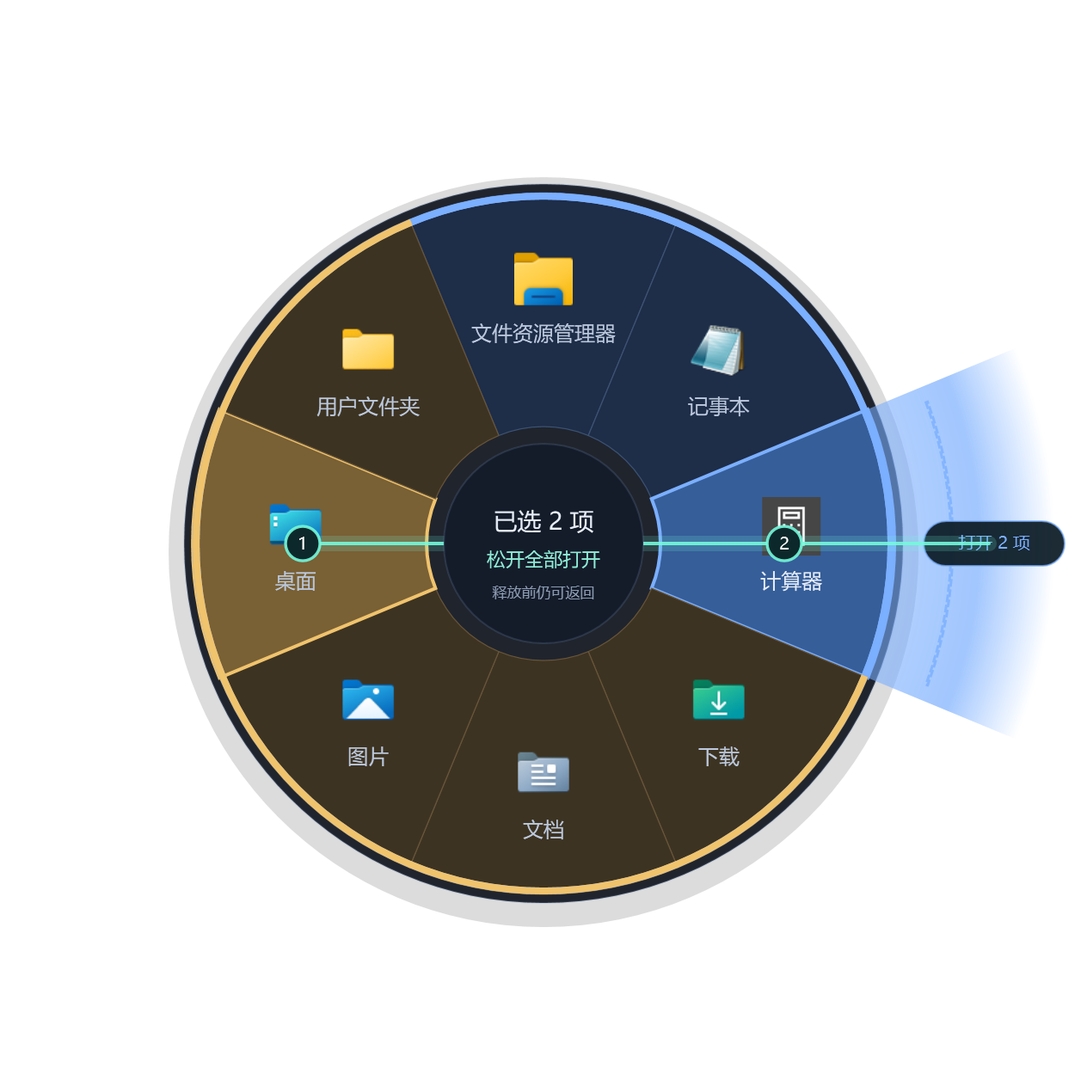
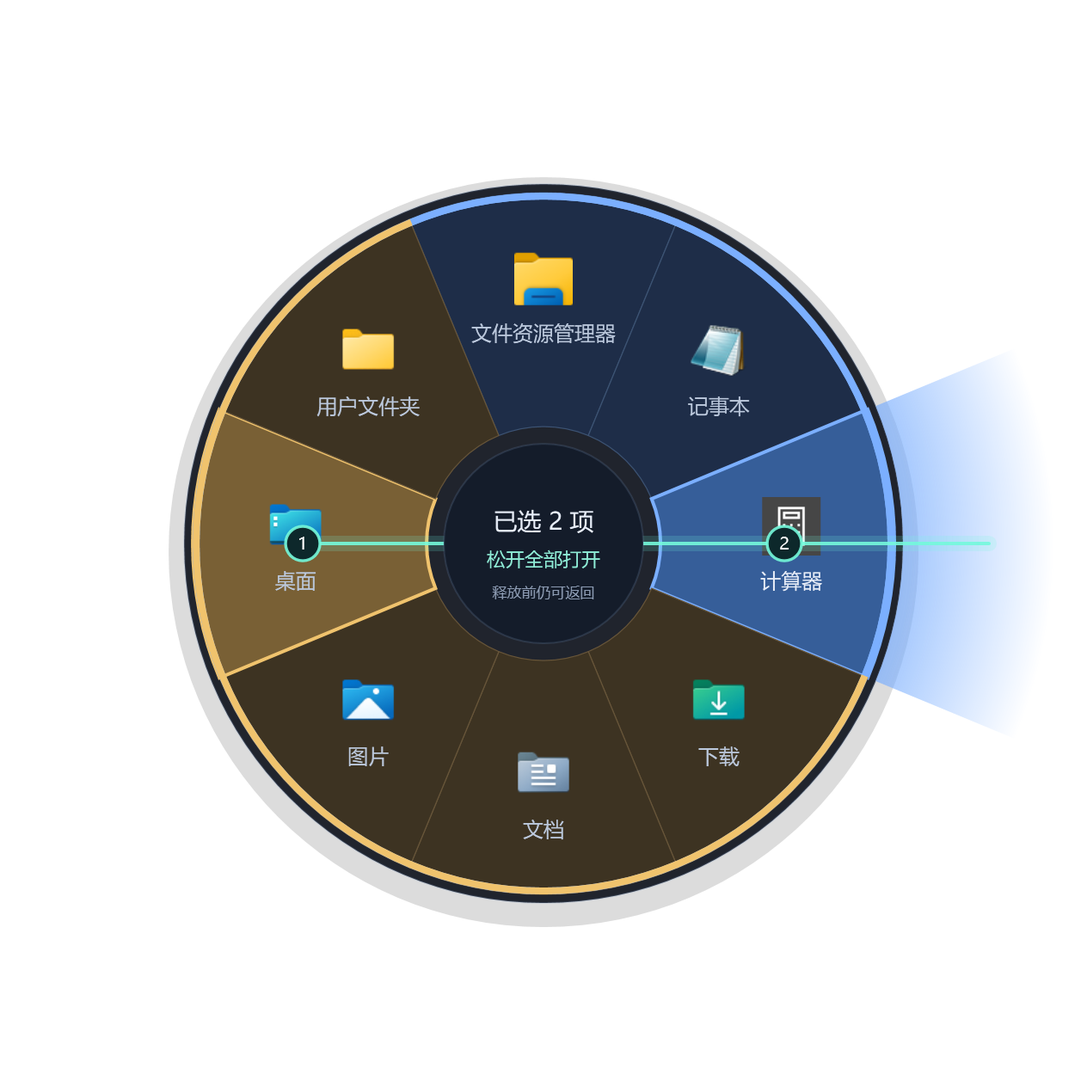
fix: confirm across outer area and keep wheel centred at gesture origin

Changed region(s): [[0.8022, 0.3394, 0.9873, 0.6788]]

diff --git a/src/OrbitLauncher/SettingsWindow.xaml b/src/OrbitLauncher/SettingsWindow.xaml
@@ -25,7 +25,7 @@
   <Grid.RowDefinitions><RowDefinition Height="Auto"/><RowDefinition Height="Auto"/><RowDefinition Height="*"/><RowDefinition Height="Auto"/></Grid.RowDefinitions>
   <Grid>
    <StackPanel Orientation="Horizontal"><Image Source="{x:Static local:Branding.Logo}" Width="52" Height="52" RenderOptions.BitmapScalingMode="HighQuality"/><StackPanel Margin="14,0,0,0" VerticalAlignment="Center"><StackPanel Orientation="Horizontal"><TextBlock Text="一划" FontSize="27" FontWeight="SemiBold"/><TextBlock Text="YIHUA" Foreground="{DynamicResource Theme.AccentText}" FontSize="10" Margin="12,0,0,5" VerticalAlignment="Bottom"/></StackPanel><TextBlock Text="一划即达，让常用的入口就在手边。" Foreground="{DynamicResource Theme.Muted}" Margin="0,4,0,0" FontSize="11"/></StackPanel></StackPanel>
-   <StackPanel HorizontalAlignment="Right" VerticalAlignment="Center"><Border Background="{DynamicResource Theme.Status}" BorderBrush="{DynamicResource Theme.StatusBorder}" BorderThickness="1" CornerRadius="12" Padding="12,5"><TextBlock x:Name="RuntimeTrayStatus" FontSize="11" Foreground="{DynamicResource Theme.StatusText}"/></Border><TextBlock Text="版本 1.3.1" HorizontalAlignment="Right" Foreground="{DynamicResource Theme.Subtle}" FontSize="10" Margin="0,7,4,0"/></StackPanel>
+   <StackPanel HorizontalAlignment="Right" VerticalAlignment="Center"><Border Background="{DynamicResource Theme.Status}" BorderBrush="{DynamicResource Theme.StatusBorder}" BorderThickness="1" CornerRadius="12" Padding="12,5"><TextBlock x:Name="RuntimeTrayStatus" FontSize="11" Foreground="{DynamicResource Theme.StatusText}"/></Border><TextBlock Text="版本 1.3.2" HorizontalAlignment="Right" Foreground="{DynamicResource Theme.Subtle}" FontSize="10" Margin="0,7,4,0"/></StackPanel>
   </Grid>
   <Border Grid.Row="1" Background="{DynamicResource Theme.Hint}" BorderBrush="{DynamicResource Theme.HintBorder}" BorderThickness="1" CornerRadius="10" Padding="15,11" Margin="0,21,0,20"><Grid><Grid.ColumnDefinitions><ColumnDefinition Width="*"/><ColumnDefinition Width="Auto"/></Grid.ColumnDefinitions><TextBlock x:Name="GestureHint" Foreground="{DynamicResource Theme.HintText}" FontSize="12" VerticalAlignment="Center"/><Border Grid.Column="1" BorderBrush="{DynamicResource Theme.Border}" BorderThickness="1" CornerRadius="5" Padding="7,3" Margin="12,0,0,0" ToolTip="回到中心、提前松开修饰键或按 Esc 均可取消"><TextBlock Text="Esc 取消" Foreground="{DynamicResource Theme.Muted}" FontSize="10"/></Border></Grid></Border>
   <TabControl x:Name="SettingsTabs" Grid.Row="2">

diff --git a/src/OrbitLauncher/SelfTests.cs b/src/OrbitLauncher/SelfTests.cs
@@ -55,6 +55,7 @@ internal static partial class SelfTests
             Check(!controller.WheelVisible && controller.LaunchAttempts==launches && controller.GesturePhase==GesturePhase.Idle,"GameBecomingForegroundBeforeReleaseCancelsLaunch");
             controller.TestProtection(null);controller.TestModifierUp();controller.Config.GameModeEnabled=originalGameMode;controller.Apply();
             await VerifyMultiGesture(controller,Path.GetDirectoryName(report)!,Check);
+            await VerifyEdgeGestures(controller,Path.GetDirectoryName(report)!,Check);
             results["GestureChecksPassed"]=true;
             results["Success"]=controller.TrayRegistered && controller.TrayLocated;
             controller.TestTrayExit();
@@ -92,15 +93,15 @@ internal static partial class SelfTests
                 app.Dispatcher.BeginInvoke(()=> {try {action(app.Windows.OfType<ItemEditorWindow>().Single());}catch(Exception ex){error=ex;foreach(var editor in app.Windows.OfType<ItemEditorWindow>().ToArray())editor.Close();}});
                 preview.EditorPointerDown(point);preview.EditorPointerUp(point);if(error!=null)throw error;
             }
-            SaveVisual(window,Path.Combine(Path.GetDirectoryName(report)!,"设置页-1.3.1.png"));
+            SaveVisual(window,Path.Combine(Path.GetDirectoryName(report)!,"设置页-1.3.2.png"));
             var headerTabs=(TabControl)window.FindName("SettingsTabs");
             for(int tabIndex=0;tabIndex<headerTabs.Items.Count;tabIndex++)
             {
                 headerTabs.SelectedIndex=tabIndex;var tab=(TabItem)headerTabs.Items[tabIndex];tab.Focus();await Task.Delay(80);window.UpdateLayout();
-                SaveVisual(window,Path.Combine(Path.GetDirectoryName(report)!,$"标签{tabIndex}-1.3.1.png"));
+                SaveVisual(window,Path.Combine(Path.GetDirectoryName(report)!,$"标签{tabIndex}-1.3.2.png"));
                 Check(RoundedTabCorners(tab),$"SelectedFocusedTab{tabIndex}HasFourRoundedCorners");
             }
-            SaveVisual(window,Path.Combine(Path.GetDirectoryName(report)!,"标签焦点-1.3.1.png"));headerTabs.SelectedIndex=0;window.UpdateLayout();
+            SaveVisual(window,Path.Combine(Path.GetDirectoryName(report)!,"标签焦点-1.3.2.png"));headerTabs.SelectedIndex=0;window.UpdateLayout();
             await VerifyThemes(controller,window,preview,Path.GetDirectoryName(report)!,Check);
             await VerifyRunningApplications(controller,window,Path.GetDirectoryName(report)!,Check);
             VerifyBatchDelete(controller,window,preview,Path.GetDirectoryName(report)!,Check);
@@ -111,7 +112,7 @@ internal static partial class SelfTests
                 var next=new Point(center.X+Math.Cos(angle)*radius,center.Y+Math.Sin(angle)*radius);
                 var first=controller.Config.Items[0];var secondItem=controller.Config.Items[1];
                 preview.EditorPointerDown(top);preview.EditorPointerMove(next);
-                SaveVisual(window,Path.Combine(Path.GetDirectoryName(report)!,"拖动交换-1.3.1.png"));preview.EditorPointerUp(next);
+                SaveVisual(window,Path.Combine(Path.GetDirectoryName(report)!,"拖动交换-1.3.2.png"));preview.EditorPointerUp(next);
                 Check(ReferenceEquals(controller.Config.Items[0],secondItem) && ReferenceEquals(controller.Config.Items[1],first),"DragSwapsExactlyTwoItems");
                 Check(!app.Windows.OfType<ItemEditorWindow>().Any(),"DragDoesNotOpenEditor");
                 Check(new ConfigStore().Load().Items[0].Name==secondItem.Name,"DragSwapSavedToDisk");
@@ -142,14 +143,14 @@ internal static partial class SelfTests
                 Edit(top,editor=> {((TextBox)editor.FindName("NameBox")).Text="未保存草稿";editor.Close();});
                 Check(controller.Config.Items[0].Name==name,"CancelEditPreservesOriginal");
                 Edit(top,editor=> {
-                    editor.UpdateLayout();SaveVisual(editor,Path.Combine(Path.GetDirectoryName(report)!,"选项详情-1.3.1.png"));
+                    editor.UpdateLayout();SaveVisual(editor,Path.Combine(Path.GetDirectoryName(report)!,"选项详情-1.3.2.png"));
                     var form=(FrameworkElement)editor.FindName("EditorForm");var testButton=(Button)editor.FindName("TestItemButton");
                     Check(form.Parent is Grid,"EditorFormHasNoOuterScrollViewer");
                     editor.Width=editor.MinWidth;editor.Height=editor.MinHeight;
                     var status=(TextBlock)editor.FindName("EditorStatus");status.Text=new string('测',120);editor.UpdateLayout();
                     Check(testButton.TranslatePoint(new Point(0,testButton.ActualHeight),form).Y<=form.ActualHeight+.5,"AllEditorFieldsFitAtMinimumSizeWithValidationMessage");
                     var runningButton=(Button)editor.FindName("RunningAppsButton");Check(runningButton.TranslatePoint(new Point(runningButton.ActualWidth,0),form).X<=form.ActualWidth+.5,"RunningProgramBrowseButtonFitsMinimumEditorWidth");
-                    SaveVisual(editor,Path.Combine(Path.GetDirectoryName(report)!,"紧凑选项详情-1.3.1.png"));
+                    SaveVisual(editor,Path.Combine(Path.GetDirectoryName(report)!,"紧凑选项详情-1.3.2.png"));
                     ((TextBox)editor.FindName("NameBox")).Text="中文编辑保存验证";Check(editor.SaveItem(),"ExistingItemSaves");});
                 Check(new ConfigStore().Load().Items[0].Name=="中文编辑保存验证","EditedNameReadback");
                 Edit(top,editor=> {((TextBox)editor.FindName("NameBox")).Text=name;Check(editor.SaveItem(),"RestoreEditedName");});
@@ -182,15 +183,15 @@ internal static partial class SelfTests
             blocked.SelectedItem=blocked.Items.Cast<ForegroundGuard.ApplicationWindow>().Single(x=>x.Name==appItem.Name);((Button)window.FindName("RemoveAppButton")).RaiseEvent(new RoutedEventArgs(Button.ClickEvent));
             Check(new ConfigStore().Load().BlockedApplications.SequenceEqual(original.BlockedApplications),"RemoveProtectedApplicationRestoresList");
             Check(running.Items.Cast<ForegroundGuard.ApplicationWindow>().Any(x=>x.Name==appItem.Name),"RemovingRuleReturnsRunningApplicationToLeft");
-            SaveVisual(window,Path.Combine(Path.GetDirectoryName(report)!,"游戏保护-1.3.1.png"));tabs.SelectedIndex=1;await Task.Delay(100);
+            SaveVisual(window,Path.Combine(Path.GetDirectoryName(report)!,"游戏保护-1.3.2.png"));tabs.SelectedIndex=1;await Task.Delay(100);
             var size=(Slider)window.FindName("SizeSlider");size.Value=original.Diameter==680?670:original.Diameter+10;await Task.Delay(500);
             Check(new ConfigStore().Load().Diameter==(int)size.Value,"GlobalAppearanceSavesIndependently");
             Check(controller.Config.Items.Count==count,"GlobalChangeDoesNotChangeItems");size.Value=original.Diameter;window.Flush();
-            SaveVisual(window,Path.Combine(Path.GetDirectoryName(report)!,"全局设置-1.3.1.png"));
+            SaveVisual(window,Path.Combine(Path.GetDirectoryName(report)!,"全局设置-1.3.2.png"));
             window.Width=760;window.Height=640;await Task.Delay(100);
-            SaveVisual(window,Path.Combine(Path.GetDirectoryName(report)!,"紧凑全局设置-1.3.1.png"));
+            SaveVisual(window,Path.Combine(Path.GetDirectoryName(report)!,"紧凑全局设置-1.3.2.png"));
             tabs.SelectedIndex=0;await Task.Delay(100);
-            SaveVisual(window,Path.Combine(Path.GetDirectoryName(report)!,"紧凑设置页-1.3.1.png"));
+            SaveVisual(window,Path.Combine(Path.GetDirectoryName(report)!,"紧凑设置页-1.3.2.png"));
             ((Button)window.FindName("SaveCloseButton")).RaiseEvent(new RoutedEventArgs(Button.ClickEvent));
             Check(controller.TrayVisible && !app.Windows.OfType<SettingsWindow>().Any(),"SaveCloseKeepsTray");
             controller.ShowSettings();Check(app.Windows.OfType<SettingsWindow>().Single().IsVisible,"SettingsReopen");
@@ -305,9 +306,7 @@ internal static partial class SelfTests
             Check(RadialMath.Select(0,0,58,8)==-1,"中心取消");
             Check(RadialMath.Select(58,0,58,8)==-1,"取消半径边界");
             Check(RadialMath.Select(100,0,58,0)==-1,"空配置取消");
-            Check(RadialMath.ClampCenter(-1900,-1920,0,226)==-1694,"负坐标屏幕边缘调整");
-            Check(RadialMath.ClampCenter(1900,0,1920,226)==1694,"右屏幕边缘调整");
-            Check(RadialMath.ClampCenter(20,0,300,226)==150,"小屏幕居中");
+            VerifyConfirmationAreaAndPlacement(Check);
             var g=new GestureMachine();
             foreach(int count in new[]{1,8,9,16}){Check(ContinuousRing(count),$"{count} 项编辑彩色外圈 1440 个采样点连续无暗缝");Check(ContinuousRing(count,false),$"{count} 项手势彩色外圈 1440 个采样点连续无暗缝");}
             Check(ItemAppearance.Classify("https://example.com/")==LaunchKind.Web && ItemAppearance.Classify("saved.url")==LaunchKind.Web,"网页和 URL 快捷文件使用网页配色");

diff --git a/src/OrbitLauncher/SelfTests.Edges.cs b/src/OrbitLauncher/SelfTests.Edges.cs
@@ -1,0 +1,84 @@
+using System;
+using System.Collections.Generic;
+using System.IO;
+using System.Linq;
+using System.Runtime.InteropServices;
+using System.Threading.Tasks;
+using System.Windows;
+using System.Windows.Interop;
+using System.Windows.Media;
+using System.Windows.Media.Imaging;
+
+namespace OrbitLauncher;
+internal static partial class SelfTests
+{
+    static void VerifyConfirmationAreaAndPlacement(Action<bool,string> check)
+    {
+        var selection=new GestureSelection();
+        foreach(int count in new[]{1,3,8,16})for(int index=0;index<count;index++)
+        {
+            double direction=-Math.PI/2+index*2*Math.PI/count;
+            selection.Begin(count,209,58);selection.Update(140*Math.Cos(direction),140*Math.Sin(direction),0);selection.Update(140*Math.Cos(direction),140*Math.Sin(direction),150);
+            foreach(double offset in new[]{-.98,-.6,0,.6,.98})foreach(double radius in new[]{209.25,219,296.75,450})
+            {
+                double angle=direction+offset*Math.PI/count;
+                selection.Update(radius*Math.Cos(angle),radius*Math.Sin(angle),160);
+                check(selection.Confirmed,$"{count} 项 / {index} / 角偏移 {offset} / 半径 {radius} 整片外拉范围有效");
+            }
+            selection.Update(140*Math.Cos(direction),140*Math.Sin(direction),170);
+            check(!selection.Confirmed && selection.Release(true).Length==0,$"{count} 项 / {index} 从范围返回圈内撤销确认");
+        }
+        foreach(double dpi in new[]{1,1.25,1.5,1.75,2})foreach(int diameter in new[]{300,420,680})
+        foreach(var point in new[]{(2,2),(1918,1078),(-1918,1078),(0,-1078)})
+        {
+            var bounds=RadialWindow.AnchoredBounds(point.Item1,point.Item2,diameter+212,dpi);
+            check(bounds.Left+bounds.Pixels/2d==point.Item1 && bounds.Top+bounds.Pixels/2d==point.Item2,$"{dpi} DPI / {diameter} DIP / {point} 物理中心不偏移");
+            check(bounds.Pixels/dpi>=diameter+212 && bounds.Pixels/dpi<diameter+212+2/dpi,$"{dpi} DPI / {diameter} DIP / {point} 边缘不缩小轮盘");
+        }
+        foreach(var palette in Themes.Options)
+        {
+            const int size=632;var settings=Settings.Defaults();settings.Theme=palette.Id;
+            var surface=new RadialSurface{Width=size,Height=size};surface.Configure(settings);
+            surface.Measure(new Size(size,size));surface.Arrange(new Rect(0,0,size,size));surface.UpdateLayout();
+            surface.Gesture.Begin(8,surface.OuterRadius,58);surface.Gesture.Update(140,0,0);surface.Gesture.Update(140,0,150);surface.Gesture.Update(211,0,160);surface.InvalidateVisual();surface.UpdateLayout();
+            var image=new RenderTargetBitmap(size*2,size*2,192,192,PixelFormats.Pbgra32);image.Render(surface);var pixels=new byte[size*size*16];int stride=size*8;image.CopyPixels(pixels,stride,0);
+            byte Alpha(double r){int x=(int)Math.Round((316+r*Math.Cos(.22))*2),y=(int)Math.Round((316+r*Math.Sin(.22))*2);return pixels[y*stride+x*4+3];}
+            bool smooth=true;for(double r=surface.OuterRadius+14;r<surface.OuterRadius+76;r+=.5)if(Alpha(r+.5)>Alpha(r)+1)smooth=false;
+            check(smooth,$"{palette.Id} 外拉渐变连续递减，无虚线范围边框或按钮描边");
+            bool transparent=true;for(int i=0;i<size*2;i++)foreach(int offset in new[]{i*4,(size*2-1)*stride+i*4,i*stride,i*stride+(size*2-1)*4})if(pixels[offset+3]!=0)transparent=false;
+            check(transparent,$"{palette.Id} 手势画布四边透明，不绘制矩形范围框");
+        }
+    }
+    static async Task VerifyEdgeGestures(AppController controller,string folder,Action<bool,string> check)
+    {
+        var original=controller.Config.Items;var launched=new List<string>();controller.TestLaunch=item=>launched.Add(item.Name);
+        controller.Config.Items=Settings.Defaults().Items;controller.Apply();
+        var monitor=Native.MonitorFromPoint(new Native.POINT(400,400),2);var info=new Native.MONITORINFO{Size=Marshal.SizeOf<Native.MONITORINFO>()};
+        if(!Native.GetMonitorInfo(monitor,ref info))throw new Exception("无法读取边界验证显示器");
+        var work=info.Work;var bounds=info.Monitor;int cx=(work.Left+work.Right)/2,cy=(work.Top+work.Bottom)/2;
+        try
+        {
+            foreach(var point in new[]{(X:cx,Y:work.Bottom-2),(X:cx,Y:bounds.Bottom-2),(X:work.Left+2,Y:cy),(X:work.Right-2,Y:cy),(X:cx,Y:bounds.Top+2)})
+            {
+                int selectedIndex=point.X==work.Left+2?2:point.X==work.Right-2?6:point.Y==bounds.Top+2?4:0;
+                double direction=-Math.PI/2+selectedIndex*Math.PI/4;
+                controller.TestModifierDown();controller.TestPointer(0x201,point.X,point.Y);controller.TestPointer(0x200,point.X+(int)Math.Round(40*Math.Cos(direction)),point.Y+(int)Math.Round(40*Math.Sin(direction)));await Task.Delay(170);
+                var wheel=controller.TestWheel;wheel.UpdateLayout();var place=wheel.Placement;
+                check(place.X==point.X && place.Y==point.Y,$"Edge{point}LogicalOriginMatchesMouseDown");
+                var visualCenter=wheel.Surface.PointToScreen(new Point(wheel.Surface.ActualWidth/2,wheel.Surface.ActualHeight/2));
+                check(Math.Abs(visualCenter.X-point.X)<=1 && Math.Abs(visualCenter.Y-point.Y)<=1,$"Edge{point}ActualWpfCentreMatchesMouseDown");
+                var hwnd=new WindowInteropHelper(wheel).Handle;check(Native.GetWindowRect(hwnd,out var rect) && Math.Abs((rect.Left+rect.Right)/2d-point.X)<=1 && Math.Abs((rect.Top+rect.Bottom)/2d-point.Y)<=1,$"Edge{point}NativeBoundsRemainCentred");
+                check((Native.GetWindowLongPtr(hwnd,-16).ToInt64()&0x00C40000)==0 && wheel.BorderThickness==new Thickness(0),$"Edge{point}NativeWindowHasNoRectangularFrame");
+                controller.TestPointer(0x200,(int)Math.Round(point.X+140*Math.Cos(direction)*place.Scale),(int)Math.Round(point.Y+140*Math.Sin(direction)*place.Scale));await Task.Delay(230);
+                double angle=direction+Math.PI/8*.85,radius=wheel.Surface.OuterRadius+2;
+                int x=(int)Math.Round(point.X+radius*Math.Cos(angle)*place.Scale),y=(int)Math.Round(point.Y+radius*Math.Sin(angle)*place.Scale);
+                controller.TestPointer(0x200,x,y);await Task.Delay(40);
+                check(wheel.Selection.Confirmed,$"Edge{point}NearEdgeOfWholeConfirmationAreaArms");
+                if(point.Y==work.Bottom-2)SaveVisual(wheel,Path.Combine(folder,"任务栏边缘-1.3.2.png"));
+                controller.TestPointer(0x202,x,y);await Task.Delay(110);controller.TestModifierUp();
+                check(launched.SequenceEqual(new[]{controller.Config.Items[selectedIndex].Name}),$"Edge{point}ConfirmedReleaseDispatchesExactlyOnce");launched.Clear();
+            }
+        }
+        finally{controller.Recover();controller.TestModifierUp();controller.Config.Items=original;controller.Apply();controller.TestLaunch=null;}
+    }
+}

diff --git a/src/OrbitLauncher/RadialWindow.cs b/src/OrbitLauncher/RadialWindow.cs
@@ -26,6 +26,7 @@ internal sealed class RadialWindow : Window
     {
         Title="一划 · 轮盘"; WindowStyle=WindowStyle.None; ResizeMode=ResizeMode.NoResize;
         AllowsTransparency=true; Background=Brushes.Transparent; ShowInTaskbar=false; ShowActivated=false;
+        BorderThickness=new Thickness(0);FocusVisualStyle=null;
         Topmost=true; Focusable=false; Content=surface;
         dwellTimer=new DispatcherTimer(DispatcherPriority.Input){Interval=TimeSpan.FromMilliseconds(25)};
         dwellTimer.Tick+=(_,_)=> {if(tracking)UpdateSelection(surface.Gesture.X,surface.Gesture.Y);else dwellTimer.Stop();};
@@ -36,21 +37,34 @@ internal sealed class RadialWindow : Window
     public void OpenAt(int x,int y,Settings settings)
     {
         generation++; BeginAnimation(OpacityProperty,null); Opacity=1;
-        var (work,dpi)=Native.ScreenAt(x,y); scale=dpi;
-        var size=Math.Min(settings.Diameter+2*(GestureSelection.Extension+18),Math.Min(work.Right-work.Left,work.Bottom-work.Top)/scale);
+        scale=Native.ScreenAt(x,y).Scale;
+        double size=settings.Diameter+2*(GestureSelection.Extension+18);
+        centerX=x;centerY=y;
         Width=Height=size;
-        var half=size*scale/2;
-        centerX=RadialMath.ClampCenter(x,work.Left,work.Right,half);
-        centerY=RadialMath.ClampCenter(y,work.Top,work.Bottom,half);
         surface.Configure(settings.Copy());surface.Width=surface.Height=size;
         surface.Gesture.Begin(settings.Items.Count,surface.OuterRadius,settings.CancelRadius);
         tracking=true;
         surface.Selected=-1; surface.InvalidateVisual();
         Show();
-        Native.SetWindowPos(new WindowInteropHelper(this).Handle,new IntPtr(-1),(int)Math.Round(centerX-half),(int)Math.Round(centerY-half),(int)Math.Round(size*scale),(int)Math.Round(size*scale),0x10|0x40);
-        // Ask WPF to remeasure after its per-monitor DPI transition.
-        surface.Width=surface.Height=size;
+        PlaceAtOrigin(size);
+        // The actual HWND DPI is authoritative when the window crosses a monitor.
+        double actualScale=VisualTreeHelper.GetDpi(this).DpiScaleX;
+        if(Math.Abs(actualScale-scale)>.001){scale=actualScale;PlaceAtOrigin(size);}
+        surface.InvalidateMeasure();
         BeginAnimation(OpacityProperty,new DoubleAnimation(0,1,TimeSpan.FromMilliseconds(95)));
+    }
+    internal static (int Left,int Top,int Pixels) AnchoredBounds(int x,int y,double size,double dpi)
+    {
+        // An even pixel extent keeps the physical centre exactly on the origin,
+        // including fractional scaling and negative coordinates on secondary monitors.
+        int half=(int)Math.Ceiling(size*dpi/2);
+        return(x-half,y-half,half*2);
+    }
+    void PlaceAtOrigin(double size)
+    {
+        var bounds=AnchoredBounds((int)centerX,(int)centerY,size,scale);
+        double dipSize=bounds.Pixels/scale;Width=Height=dipSize;surface.Width=surface.Height=dipSize;
+        Native.SetWindowPos(new WindowInteropHelper(this).Handle,new IntPtr(-1),bounds.Left,bounds.Top,bounds.Pixels,bounds.Pixels,0x10|0x40);
     }
     public void Track(int x,int y)
     {if(tracking)UpdateSelection((x-centerX)/scale,(y-centerY)/scale);}
@@ -88,7 +102,7 @@ public sealed class RadialSurface : FrameworkElement
     Point pressPoint,dragPoint;
     public RadialSurface()
     {
-        Focusable=true;
+        Focusable=true;FocusVisualStyle=null;
         MouseLeftButtonDown+=(_,e)=> {if(!EditorMode)return;Focus();EditorPointerDown(e.GetPosition(this));if(editorPressed)CaptureMouse();e.Handled=true;};
         MouseMove+=(_,e)=> {if(EditorMode)EditorPointerMove(e.GetPosition(this));};
         MouseLeave+=(_,_)=> {if(EditorMode && !editorPressed){Selected=-1;centerHovered=false;InvalidateVisual();}};
@@ -190,7 +204,7 @@ public sealed class RadialSurface : FrameworkElement
         else if(Gesture.Stops.Count>0)
         {
             DrawText(dc,$"已选 {Gesture.Stops.Count} 项",new Point(c,c-22),14,Text,Settings.CancelRadius*1.8,1);
-            DrawText(dc,Gesture.Confirmed?"松开全部打开":"向外拉以确认",new Point(c,c+2),11,Gesture.Confirmed?skin.Brush("AccentText"):Muted,Settings.CancelRadius*1.9,1);
+            DrawText(dc,Gesture.Confirmed?"松开全部打开":"拉出轮盘以确认",new Point(c,c+2),11,Gesture.Confirmed?skin.Brush("AccentText"):Muted,Settings.CancelRadius*1.9,1);
             DrawText(dc,Gesture.Confirmed?"释放前仍可返回":"圈内松开全部取消",new Point(c,c+23),8.5,Muted,Settings.CancelRadius*1.9,1);
         }
         else if(cancel && Selected<0)
@@ -220,18 +234,13 @@ public sealed class RadialSurface : FrameworkElement
             double a=-Math.PI/2+armed*2*Math.PI/count,half=Math.PI/count;
             var color=palettes[armed].Accent.Color;
             var gradient=new RadialGradientBrush();
-            gradient.GradientStops.Add(new GradientStop(Color.FromArgb(150,color.R,color.G,color.B),0));
-            gradient.GradientStops.Add(new GradientStop(Color.FromArgb(150,color.R,color.G,color.B),outer/(outer+GestureSelection.Extension)));
-            gradient.GradientStops.Add(new GradientStop(Color.FromArgb(Gesture.Confirmed?(byte)180:(byte)75,color.R,color.G,color.B),(outer+44)/(outer+GestureSelection.Extension)));
+            byte opacity=Gesture.Confirmed?(byte)180:(byte)120;
+            gradient.GradientStops.Add(new GradientStop(Color.FromArgb(opacity,color.R,color.G,color.B),0));
+            gradient.GradientStops.Add(new GradientStop(Color.FromArgb(opacity,color.R,color.G,color.B),outer/(outer+GestureSelection.Extension)));
             gradient.GradientStops.Add(new GradientStop(Color.FromArgb(0,color.R,color.G,color.B),1));
-            dc.PushClip(Wedge(center,outer-5,outer+GestureSelection.Extension,a-half,a+half));
+            dc.PushClip(Wedge(center,outer,outer+GestureSelection.Extension,a-half,a+half));
             dc.DrawEllipse(gradient,null,center,outer+GestureSelection.Extension,outer+GestureSelection.Extension);
             dc.Pop();
-            double r=outer+GestureSelection.ConfirmationDepth;
-            dc.DrawGeometry(null,new Pen(Brush(color.R,color.G,color.B,200),1.5){DashStyle=DashStyles.Dash},Wedge(center,r,r+1,a-half*.9,a+half*.9));
-            var label=At(center,outer+53,a);
-            dc.DrawRoundedRectangle(skin.Brush("WheelConfirm"),new Pen(Brush(color.R,color.G,color.B,180),1),new Rect(label.X-41,label.Y-13,82,26),13,13);
-            DrawText(dc,Gesture.Confirmed?$"打开 {Gesture.Stops.Count} 项":"拉到此处确认",new Point(label.X,label.Y-7),10,Brush(color.R,color.G,color.B),78,1);
         }
         if(Gesture.Stops.Count==0 && Gesture.Candidate<0)return;
         var path=new StreamGeometry();

diff --git a/src/OrbitLauncher/SelfTests.NewFeatures.cs b/src/OrbitLauncher/SelfTests.NewFeatures.cs
@@ -24,8 +24,8 @@ internal static partial class SelfTests
                 double a=-Math.PI/2+i*2*Math.PI/count,x=Math.Cos(a),y=Math.Sin(a);
                 s.Begin(count,209,58);s.Update(x*140,y*140,0);s.Update(x*140,y*140,150);
                 check(s.Stops.Count==1 && s.Stops[0].Index==i && !s.Confirmed,$"{count} 项 / {i} 停留选择但不直接确认");
-                s.Update(x*236,y*236,160);check(!s.Confirmed,$"{count} 项 / {i} 未越过外部确认边界");
-                s.Update(x*238,y*238,170);check(s.Confirmed && s.Release(true).SequenceEqual(new[]{i}),$"{count} 项 / {i} 外部确认后提交且清空");
+                s.Update(x*208.5,y*208.5,160);check(!s.Confirmed,$"{count} 项 / {i} 轮盘内沿不能确认");
+                s.Update(x*209.5,y*209.5,170);check(s.Confirmed && s.Release(true).SequenceEqual(new[]{i}),$"{count} 项 / {i} 刚拉出外沿即可提交且清空");
             }
         }
         s.Begin(8,209,58);s.Update(-140,0,0);s.Update(-140,0,149);
@@ -81,7 +81,7 @@ internal static partial class SelfTests
                 var source=new Point(preview.ActualWidth/2,24);var target=new Point(preview.ActualWidth-24,preview.ActualHeight/2);
                 preview.EditorPointerDown(source);preview.EditorPointerMove(target);preview.EditorPointerUp(target);
                 check(controller.Config.Items.SequenceEqual(original),"删除模式拖动不会交换或修改选项");
-                SaveVisual(window,Path.Combine(folder,"批量删除-1.3.1.png"));
+                SaveVisual(window,Path.Combine(folder,"批量删除-1.3.2.png"));
                 toggle.RaiseEvent(new RoutedEventArgs(Button.ClickEvent));
                 check(!preview.DeleteMode && controller.Config.Items.SequenceEqual(original),"退出删除模式保留所有配置");
                 toggle.RaiseEvent(new RoutedEventArgs(Button.ClickEvent));Click(0);Click(original.Count-1);
@@ -117,14 +117,14 @@ internal static partial class SelfTests
             await Start();await Select(-radius,0);Point(0,0);await Task.Delay(35);await Select(radius,0);
             check(launched.Count==0 && controller.TestWheel.Selection.Stops.Select(s=>s.Index).SequenceEqual(new[]{6,2}),"HoldingLeftThenRightCollectsWithoutAnyEarlyLaunch");
             check(!controller.TestWheel.DwellTimerRunning,"StableSelectionStopsDwellTimerWithoutEndingGesture");
-            SaveVisual(controller.TestWheel,Path.Combine(folder,"多选路径-1.3.1.png"));
+            SaveVisual(controller.TestWheel,Path.Combine(folder,"多选路径-1.3.2.png"));
             Point(radius,0,0x202);await Task.Delay(160);controller.TestModifierUp();
             check(launched.Count==0 && controller.TestWheel.Selection.Stops.Count==0,"ReleaseInsideLastSectorCancelsEveryEntryAndPath");
             await Start();await Select(-radius,0);Point(0,0);await Task.Delay(35);await Select(radius,0);
             double outside=controller.TestWheel.Surface.OuterRadius+50;Point(outside,0);await Task.Delay(50);
             check(controller.TestWheel.Selection.Confirmed,"LastSectorOuterExtensionArmsBatch");
             check(!controller.TestWheel.DwellTimerRunning,"OuterConfirmationDoesNotKeepDwellTimerRunning");
-            SaveVisual(controller.TestWheel,Path.Combine(folder,"外拉确认-1.3.1.png"));
+            SaveVisual(controller.TestWheel,Path.Combine(folder,"外拉确认-1.3.2.png"));
             Point(outside,0,0x202);await Task.Delay(160);controller.TestModifierUp();
             check(launched.SequenceEqual(new[]{controller.Config.Items[6].Name,controller.Config.Items[2].Name}),"ConfirmedReleaseDispatchesBothEntriesInSelectionOrder");launched.Clear();
             await Start();await Select(radius,0);Point(outside,0);await Task.Delay(40);controller.TestEscape();await Task.Delay(80);Point(outside,0,0x202);await Task.Delay(120);controller.TestModifierUp();

diff --git a/src/OrbitLauncher/SelfTests.RunningApplications.cs b/src/OrbitLauncher/SelfTests.RunningApplications.cs
@@ -53,11 +53,11 @@ internal static partial class SelfTests
                 {
                     Themes.Apply(palette.Id);picker.UpdateLayout();
                     check(((SolidColorBrush)picker.Background).Color==palette.Brush("Window").Color && ((SolidColorBrush)list.Background).Color==palette.Brush("List").Color,$"{palette.Id} RunningPickerFollowsTheme");
-                    SaveVisual(picker,Path.Combine(folder,$"运行程序-{palette.Id}-1.3.1.png"));
+                    SaveVisual(picker,Path.Combine(folder,$"运行程序-{palette.Id}-1.3.2.png"));
                 }
                 Themes.Apply(theme);picker.Width=picker.MinWidth;picker.Height=picker.MinHeight;picker.UpdateLayout();
                 check(use.TranslatePoint(new Point(use.ActualWidth,use.ActualHeight),picker).X<=picker.ActualWidth && use.TranslatePoint(new Point(0,use.ActualHeight),picker).Y<=picker.ActualHeight,"RunningPickerActionsFitMinimumWindow");
-                SaveVisual(picker,Path.Combine(folder,"运行程序-最小窗口-1.3.1.png"));
+                SaveVisual(picker,Path.Combine(folder,"运行程序-最小窗口-1.3.2.png"));
                 use.RaiseEvent(new RoutedEventArgs(Button.ClickEvent));
             });
             check(selected!=null && target.Text==selected.Path && name.Text==selected.Name && work.Text==Path.GetDirectoryName(selected.Path),"RunningApplicationFillsNamePathAndWorkingDirectory");

diff --git a/src/OrbitLauncher/GestureSelection.cs b/src/OrbitLauncher/GestureSelection.cs
@@ -9,7 +9,7 @@ namespace OrbitLauncher;
 internal sealed class GestureSelection
 {
     internal const int DwellMilliseconds=150;
-    internal const double ConfirmationDepth=28, Extension=88;
+    internal const double Extension=88;
     internal readonly record struct Stop(int Index,double X,double Y);
     readonly List<Stop> stops=new();
     readonly ReadOnlyCollection<Stop> stopView;
@@ -60,7 +60,9 @@ internal sealed class GestureSelection
         {
             Candidate=-1;Progress=0;
             // Going straight outside, or out through a different sector, cannot select it.
-            Confirmed=Armed>=0 && Hovered==Armed && distance>=radius+ConfirmationDepth;
+            // The whole outward sector confirms, starting at the ring edge.
+            // There is no separate button or extra radial target to aim for.
+            Confirmed=Armed>=0 && Hovered==Armed;
             if(Hovered!=Armed)Armed=-1;
         }
     }

diff --git a/src/OrbitLauncher/Native.cs b/src/OrbitLauncher/Native.cs
@@ -26,6 +26,7 @@ internal static class Native
     [DllImport("user32.dll", CharSet=CharSet.Unicode)] internal static extern bool GetMonitorInfo(IntPtr monitor, ref MONITORINFO info);
     [DllImport("shcore.dll")] internal static extern int GetDpiForMonitor(IntPtr monitor,int type,out uint x,out uint y);
     [DllImport("user32.dll")] internal static extern bool SetWindowPos(IntPtr hwnd,IntPtr after,int x,int y,int cx,int cy,uint flags);
+    [DllImport("user32.dll")] internal static extern bool GetWindowRect(IntPtr hwnd,out RECT rect);
     [DllImport("user32.dll", EntryPoint="GetWindowLongPtrW")] internal static extern IntPtr GetWindowLongPtr(IntPtr h,int index);
     [DllImport("user32.dll", EntryPoint="SetWindowLongPtrW")] internal static extern IntPtr SetWindowLongPtr(IntPtr h,int index,IntPtr value);
     [DllImport("user32.dll", SetLastError=true)] internal static extern uint SendInput(uint count,INPUT[] inputs,int size);

diff --git a/src/OrbitLauncher/SettingsWindow.xaml.cs b/src/OrbitLauncher/SettingsWindow.xaml.cs
@@ -20,7 +20,7 @@ public partial class SettingsWindow : Window
     Settings Config=>controller.Config;
     public SettingsWindow(AppController controller)
     {
-        this.controller=controller;InitializeComponent();Title="一划 1.3.1 · 设置";
+        this.controller=controller;InitializeComponent();Title="一划 1.3.2 · 设置";
         saveTimer=new DispatcherTimer {Interval=TimeSpan.FromMilliseconds(300)};saveTimer.Tick+=(_,_)=>Flush();
         statusTimer=new DispatcherTimer {Interval=TimeSpan.FromMilliseconds(500)};statusTimer.Tick+=(_,_)=>RefreshRuntime();
         SizeSlider.Value=Config.Diameter;CancelSlider.Value=Config.CancelRadius;ThresholdSlider.Value=Config.DragThreshold;

diff --git a/src/OrbitLauncher/Models.cs b/src/OrbitLauncher/Models.cs
@@ -86,7 +86,6 @@ public static class RadialMath
         var angle = (Math.Atan2(dy, dx) + Math.PI / 2 + Math.PI * 2) % (Math.PI * 2);
         return (int)Math.Floor(angle / (Math.PI * 2 / count) + .5) % count;
     }
-    public static double ClampCenter(double value, double start, double end, double half) => end - start < half * 2 ? (start + end) / 2 : Math.Clamp(value, start + half, end - half);
 }
 
 // Pure state machine: native input is handled by InputHooks, UI by the controller.

diff --git a/README.md b/README.md
@@ -10,7 +10,7 @@ Windows 托盘轮盘快捷启动器，使用 C#、.NET 10、WPF 与 Win32 输入
 | --- | --- |
 | ![深色轮盘布局，支持点击编辑、拖动交换及批量删除](docs/screenshots/layout-dark.png) | ![浅色外观设置，支持四套主题与左侧修饰键切换](docs/screenshots/appearance-light.png) |
 
-选择多个入口后，从最后一项继续向外拉进入渐变确认区；松开左键后一起打开。
+选择多个入口后，从最后一项继续向外拉，刚超出轮盘外沿即可确认；整片方向范围都有效，松开左键后一起打开，无需瞄准按钮。
 
 <img src="docs/screenshots/gesture-confirm.png" alt="路径线按顺序连接两个选项，向外拉进入确认区" width="640" />
 
@@ -26,6 +26,8 @@ Windows 托盘轮盘快捷启动器，使用 C#、.NET 10、WPF 与 Win32 输入
 4. 在圈内或中心松开、从未选择的方向直接出圈、提前松开修饰键或按 Esc，整次取消，不提前启动任何入口。
 
 只响应左侧修饰键，右 Alt / AltGr 不触发；可改成左 Ctrl 或左 Shift。
+
+轮盘中心固定在鼠标按下的触发点。靠近任务栏或屏幕边缘时不再自动移动中心，超出屏幕的部分自然裁切。确认方向只保留柔和渐变提示，没有虚线范围边框或独立确认按钮；圈内松开及其它取消方式保持不变。
 
 ## 设置
 
